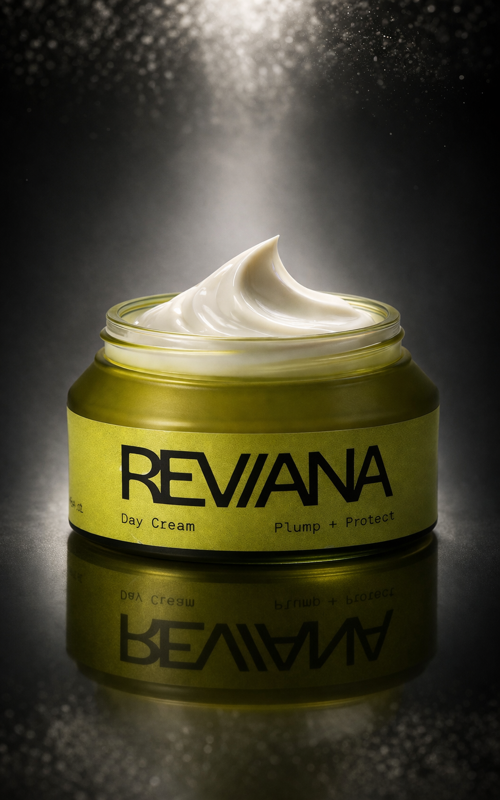
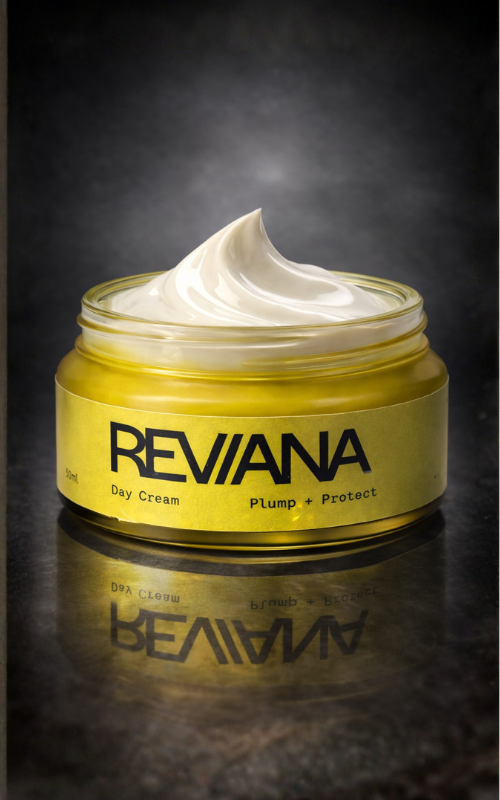
Restructure shop page: Reviana first, updated header and sections
- Header: "Shop PrimalPantry Tallow Skincare" with social proof subtitle
- Reviana section moved to top with "NEW!" label
- PrimalCare section replaces old "Calm & Soothe" header
- Removed "All Products" heading
- Reverted PDP images to previous versions

diff --git a/layouts/custom/shop.html b/layouts/custom/shop.html
@@ -333,16 +333,8 @@
         <!-- Header -->
         <div class="soothe-header">
           <div>
-            <div class="shop-eanz-pill" style="float:right;margin:0 0 4px 10px;z-index:5;display:none;align-items:center;cursor:pointer;" onclick="var m=document.getElementById('shop-eanz-modal');if(m){m.classList.add('is-open');document.body.style.overflow='hidden';}">
-              <img src="/img/home/eanz.webp" alt="Eczema Association NZ" style="width:53px;height:53px;object-fit:contain;position:relative;z-index:2;flex-shrink:0;filter:drop-shadow(0 1px 2px rgba(0,0,0,0.12));">
-              <div style="background:rgba(255,255,255,0.78);backdrop-filter:blur(4px);border-radius:0 14px 14px 0;padding:3px 7px 3px 4px;margin-left:-12px;box-shadow:0 1px 3px rgba(0,0,0,0.1);display:flex;flex-direction:column;justify-content:center;">
-                <span style="font-size:8px;color:#6B5849;font-weight:700;line-height:1.2;padding-left:14px;">Gold Supporter</span>
-                <span style="font-size:7px;color:#9CAF88;text-decoration:underline;padding-left:14px;">What's this?</span>
-              </div>
-            </div>
-            <span class="soothe-eyebrow">PrimalCare · Calm &amp; Soothe</span>
-            <h2 class="soothe-title">The routine for <em>calm, comfortable skin.</em></h2>
-            <p class="soothe-subtitle">Our best-sellers for sensitive, reactive and dry skin — built around pure tallow.</p>
+            <h2 class="soothe-title">Shop <em>PrimalPantry</em> Tallow Skincare</h2>
+            <p class="soothe-subtitle">Gentle tallow skincare for kiwis with sensitive skin. As used by 95,000 kiwis, seen on SevenSharp and Stuff.</p>
           </div>
           <div class="eanz-badge">
             <img src="/img/home/eanz.webp" alt="Eczema Association of New Zealand" width="52" height="52">
@@ -410,25 +402,27 @@
         </div>
 
         <div class="pp-card-grid" id="product-grid">
-            {{- partial "prodcardtallowskin.html" . -}}
-            {{- partial "prodcardshampoo.html" . -}}
-            {{- partial "prodcard-day-n-night.html" . -}}
-            {{- partial "prodcard-talloweye.html" . -}}
-
-            <!-- Section: Next Step — Reviana -->
+            <!-- Section: Reviana -->
             <div class="pp-grid-heading" data-section-for="skincare">
-              <h3>Next Step — <em>Reviana</em></h3>
-              <p>Our next-level soothing tallow cosmetics, designed for beauty & zero hint of tallow.</p>
+              <span class="soothe-eyebrow" style="color:var(--pc-green);">New!</span>
+              <h3>Meet <em>Reviana</em> — Tallow for your face</h3>
+              <p>No tallow smell guaranteed. Made for sensitive, powered up with beauty enhancing actives.</p>
             </div>
             {{- partial "prodcard-reviana-day.html" . -}}
             {{- partial "prodcard-reviana-night.html" . -}}
             {{- partial "prodcard-reviana-eye.html" . -}}
             {{- partial "prodcard-reviana-serum.html" . -}}
 
-            <!-- Section: All Products -->
-            <div class="pp-grid-heading" data-section-for="all">
-              <h3>All Products</h3>
+            <!-- Section: PrimalCare -->
+            <div class="pp-grid-heading" data-section-for="skincare">
+              <h3><em>PrimalCare</em> — Calm &amp; Soothe</h3>
+              <p>The routine for calm, comfortable skin. Our best-sellers for sensitive, reactive and dry skin — built around pure tallow.</p>
             </div>
+            {{- partial "prodcardtallowskin.html" . -}}
+            {{- partial "prodcardshampoo.html" . -}}
+            {{- partial "prodcard-day-n-night.html" . -}}
+            {{- partial "prodcard-talloweye.html" . -}}
+
             {{- partial "prodcard-honeybalm.html" . -}}
             {{- partial "prodcard-serum.html" . -}}
             {{- partial "prodcard-baby-butter.html" . -}}
